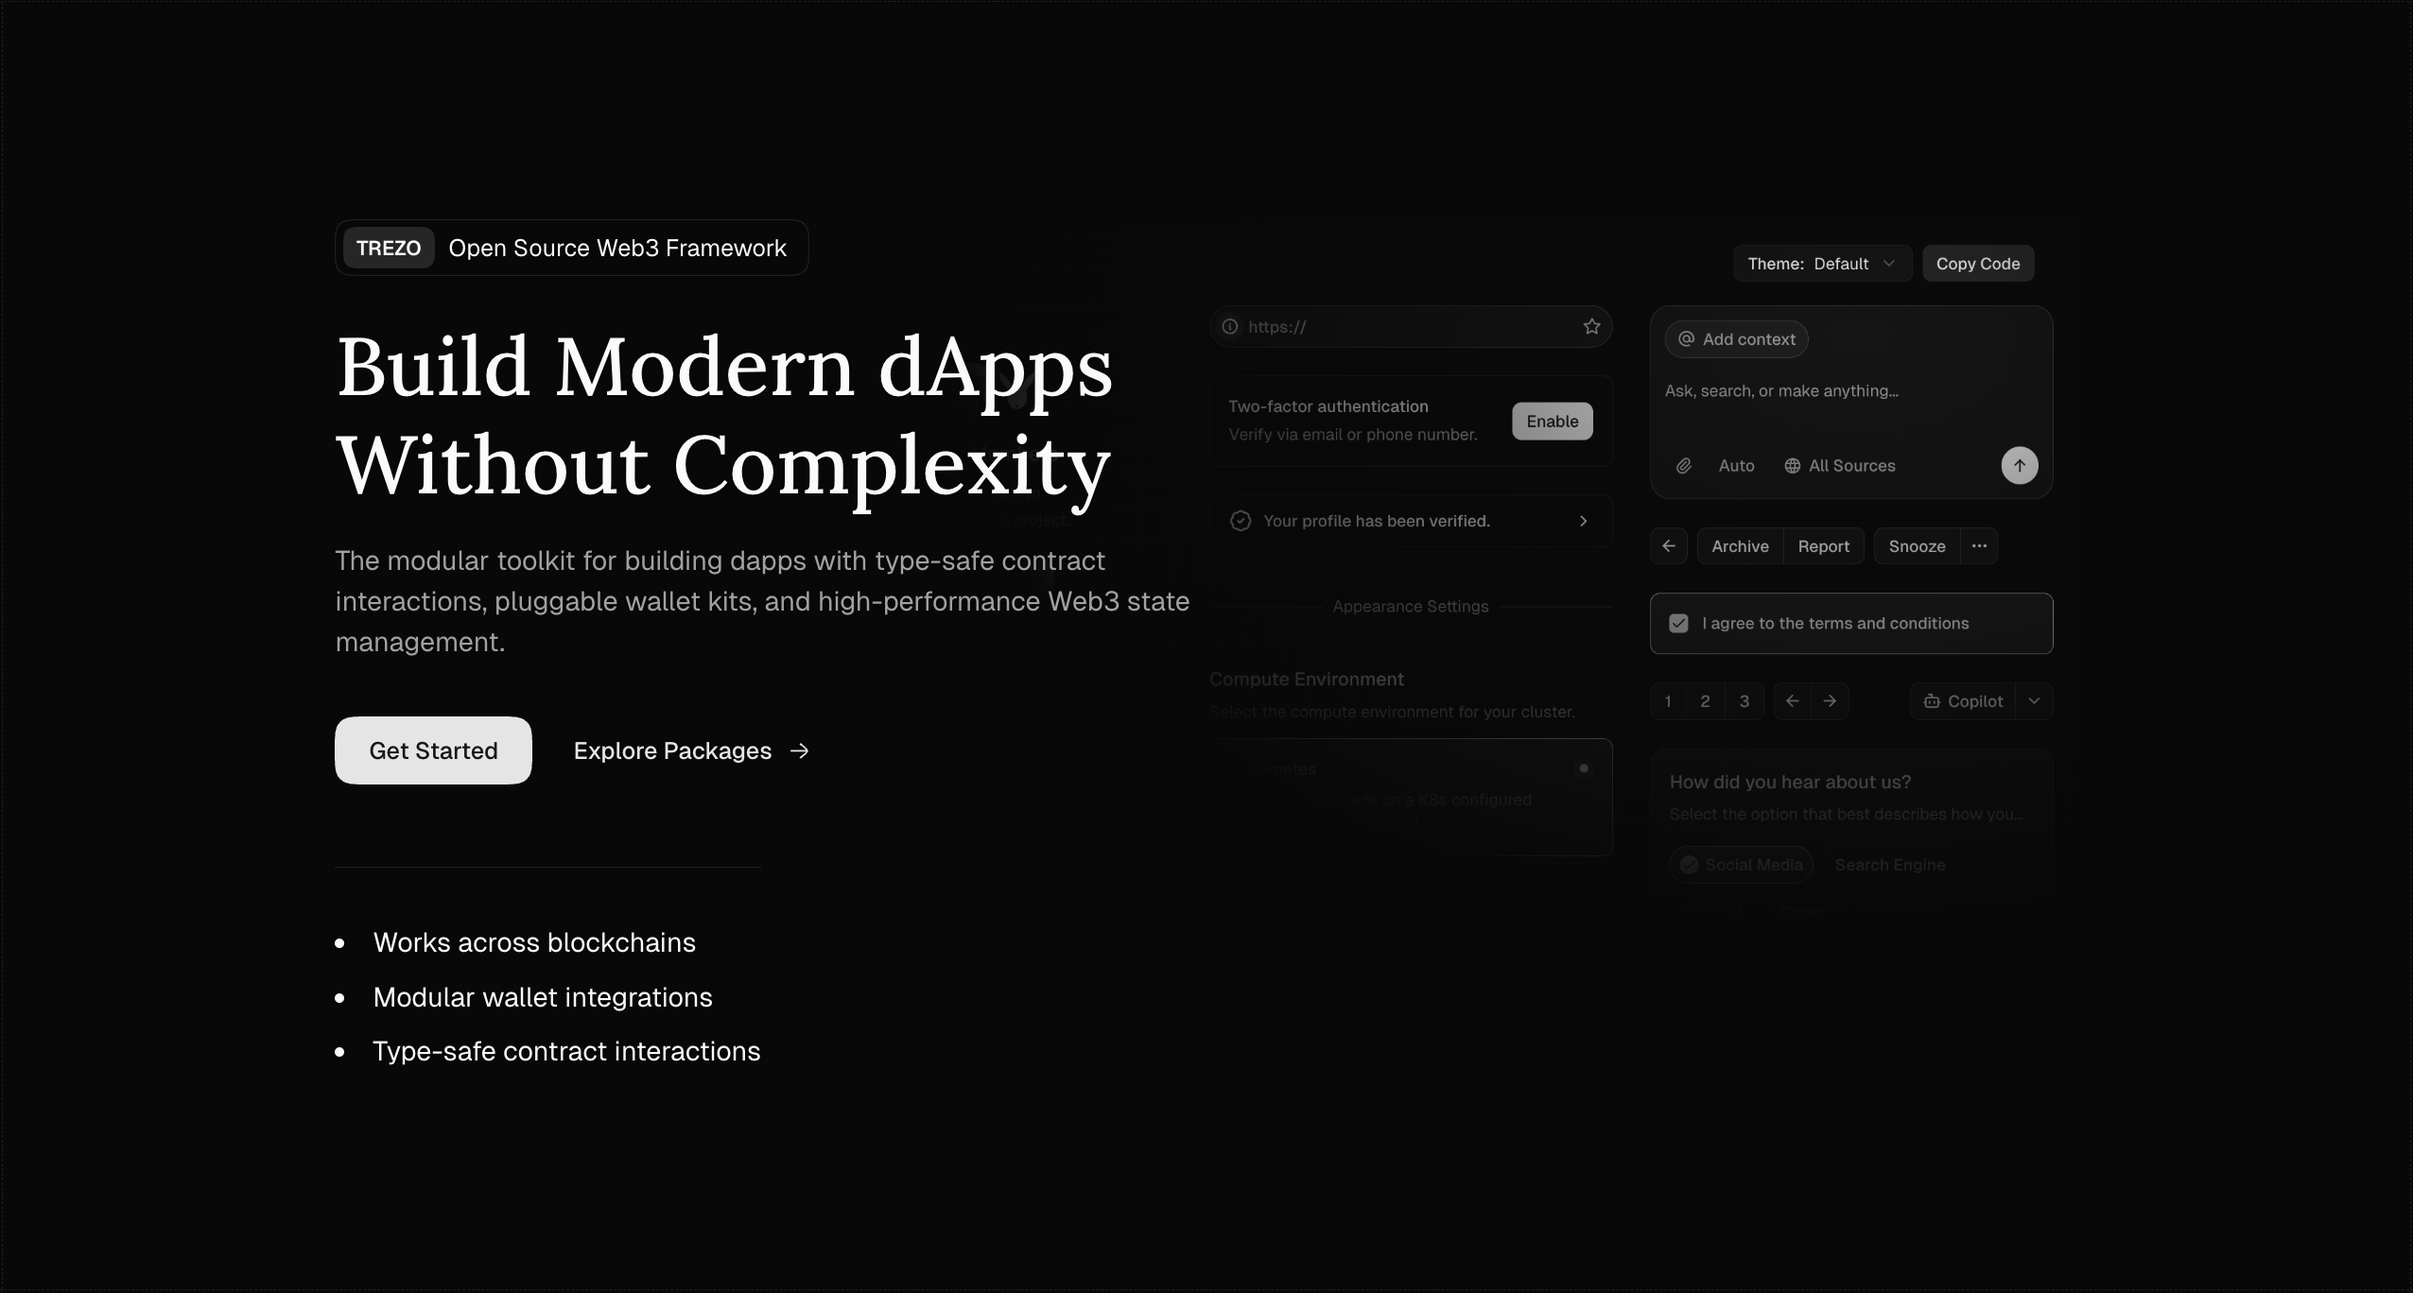
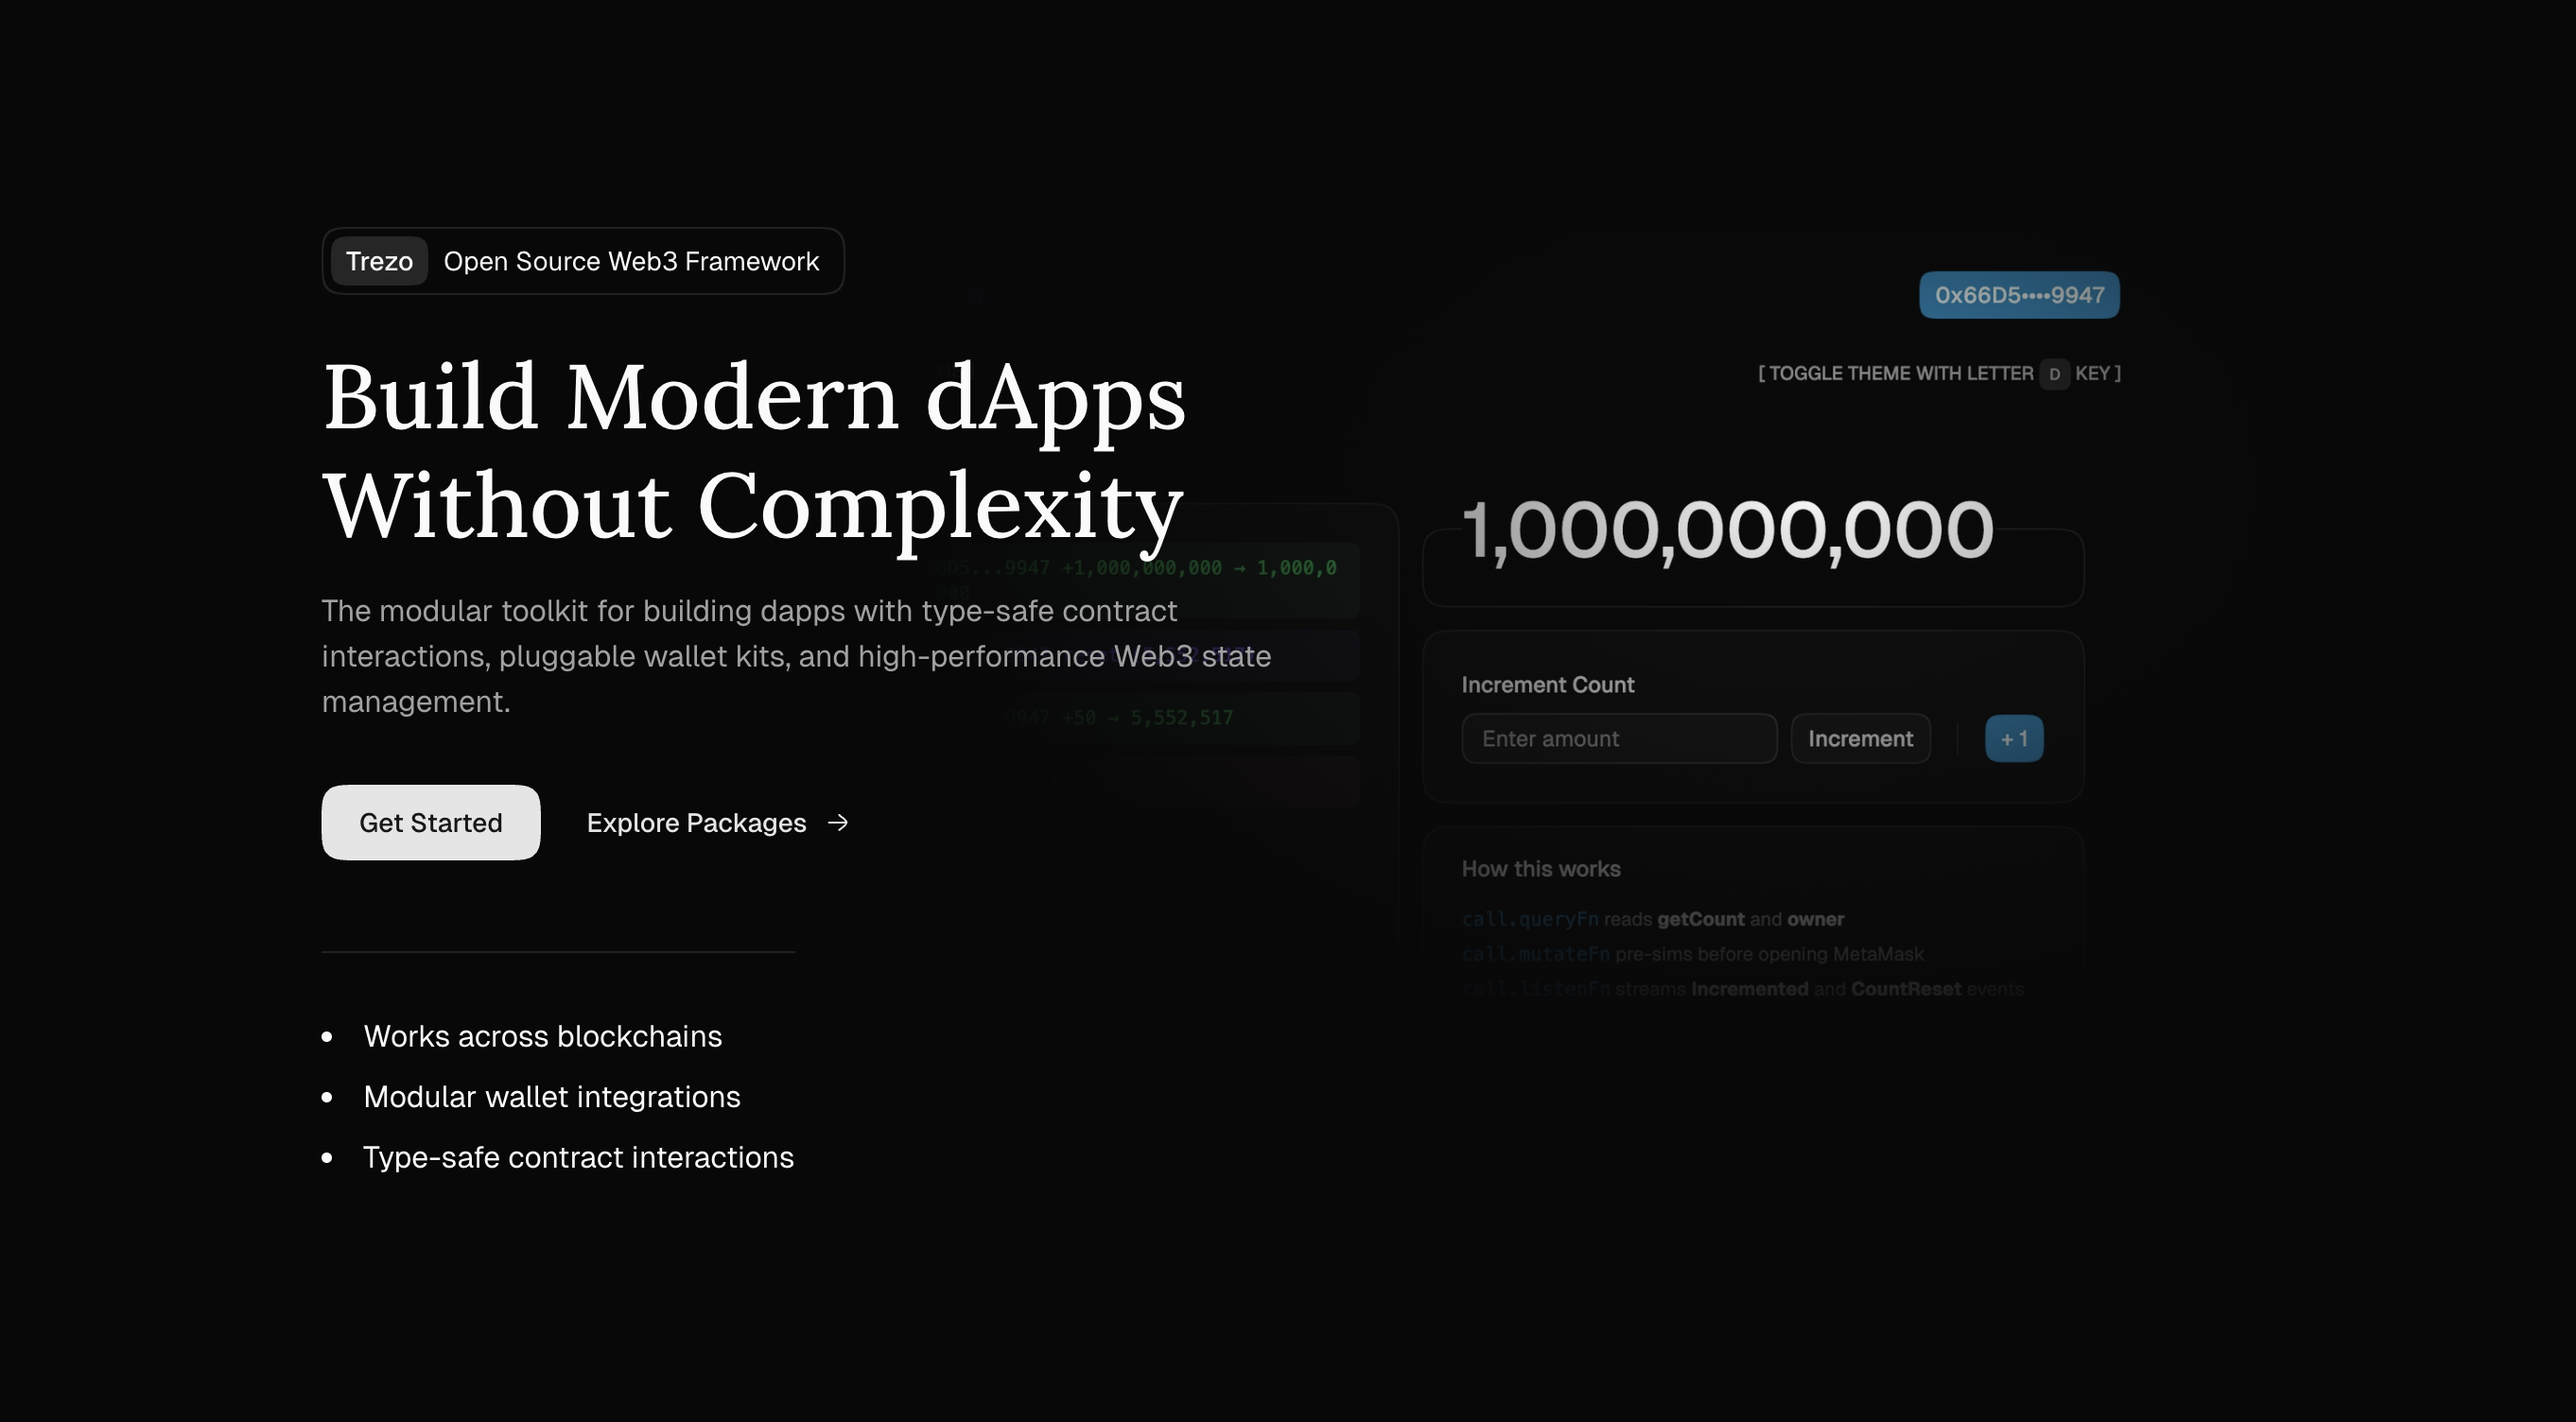
feat(ui): update hero section with new images and copy
- Replace shadcn-themed hero images with new custom hero images
- Update hero tagline from "Introducing @trezo/strk" to "Open Source Web3 Framework"
- Adjust radial gradient position for better visual balance
- Update EVM package documentation description for clarity

diff --git a/app/(routes)/(index)/_components/hero.tsx b/app/(routes)/(index)/_components/hero.tsx
@@ -21,14 +21,14 @@ export const HomeHero = () => {
                   <span className="bg-secondary px-2 py-[3px] squircle text-sm font-medium">
                     {siteConfig.name}
                   </span>
-                  <span className="text-sm">
+                  {/* <span className="text-sm">
                     Introducing <strong>@trezo/strk</strong>
                   </span>
                   <span
                     className="flex size-2 rounded-full bg-blue-500"
                     title="New"
-                  />
-                  {/* <span className="text-sm">Open Source Web3 Framework</span> */}
+                  /> */}
+                  <span className="text-sm">Open Source Web3 Framework</span>
                 </Link>
 
                 <h1 className="mt-6 text-4xl font-serif leading-[1.2] font-medium sm:text-5xl">
@@ -63,22 +63,22 @@ export const HomeHero = () => {
 
             <div className="absolute inset-0 -ml-4 hidden sm:block">
               <div className="relative">
-                <div className="to-background absolute -inset-10 z-1 bg-radial-[at_85%_15%] from-transparent to-40%"></div>
+                <div className="to-background absolute -inset-10 z-1 bg-radial-[at_75%_25%] from-transparent to-40%"></div>
                 <Image
-                  className="hidden brightness-50 lg:brightness-100 dark:block"
-                  src="/images/shadcn-dark.png"
+                  className="hidden brightness-50 lg:brightness-100 ml-auto dark:block"
+                  src="/images/hero-dark.png"
                   alt="app illustration"
-                  width={2796}
-                  height={2008}
+                  width={896}
+                  height={408}
                   priority
                   quality={100}
                 />
                 <Image
-                  className="opacity-50 lg:opacity-100 dark:hidden"
-                  src="/images/shadcn-light.png"
+                  className="opacity-50 lg:opacity-100 dark:hidden ml-auto"
+                  src="/images/hero-light.png"
                   alt="app illustration"
-                  width={2796}
-                  height={2008}
+                  width={896}
+                  height={408}
                   priority
                   quality={100}
                 />
